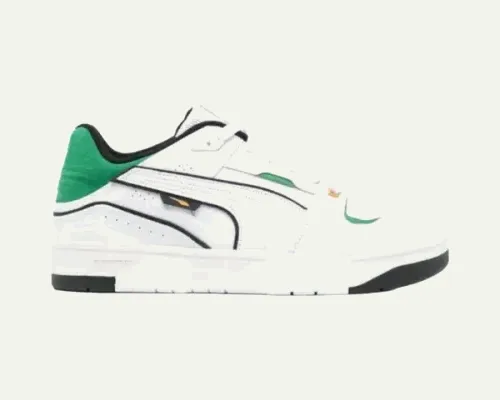
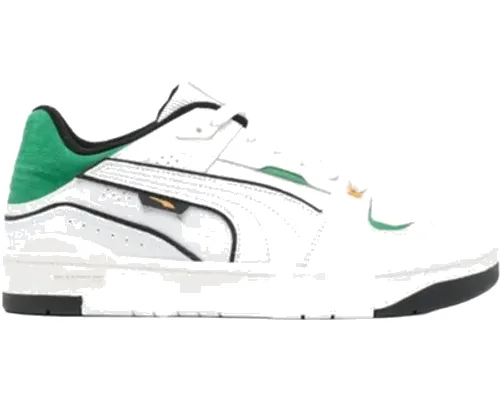
DROP 01: strokes one size down, shoes on white, résumé linked
Page divisions 2px, every object edge 1px; the nested frame around each
shoe goes, replaced by a white panel. Continental 80, Away Day and Aeon v2
swapped for angled shots so all seven pairs face the same way; all seven
re-normalised onto a white 500×400 canvas. Résumé link points at the
shared Google Drive PDF; RESUME_URL leaves the FILL list. check.sh rule
2b restated for the new weights.

Claude-Session: https://claude.ai/code/session_01GFvP9XJHX5bu9LUWUzbNcf

diff --git a/drop-01/src/components/LotDialog.jsx b/drop-01/src/components/LotDialog.jsx
@@ -38,15 +38,15 @@ export default function LotDialog({ lots, active, onRequestClose, onNavigate }) 
       onClose={onClose}
       onCancel={(e) => { e.preventDefault(); onClose(); }}
       aria-labelledby="lot-heading"
-      className="m-0 md:m-auto w-full max-w-none md:max-w-[1100px] h-full md:h-auto md:max-h-[92vh] bg-paper text-ink border-0 md:border-2 border-ink p-0 overflow-auto"
+      className="m-0 md:m-auto w-full max-w-none md:max-w-[1100px] h-full md:h-auto md:max-h-[92vh] bg-paper text-ink border-0 md:border border-ink p-0 overflow-auto"
     >
-      <div className="sticky top-0 bg-paper border-b-2 border-ink flex items-center justify-between gap-4 px-4 md:px-6 h-12">
+      <div className="sticky top-0 bg-paper border-b border-ink flex items-center justify-between gap-4 px-4 md:px-6 h-12">
         <p className="label flex gap-4">
           <span className="mono-wide">Lot {active.lot}</span>
           <span>{active.format}</span>
           <span>{active.client}</span>
         </p>
-        <button type="button" data-close onClick={onClose} className="label font-bold h-full px-3 border-l-2 border-ink -mr-4 md:-mr-6">
+        <button type="button" data-close onClick={onClose} className="label font-bold h-full px-3 border-l border-ink -mr-4 md:-mr-6">
           <Q>CLOSE</Q>
           <span className="sr-only">Close lot {active.lot}</span>
         </button>
@@ -54,7 +54,7 @@ export default function LotDialog({ lots, active, onRequestClose, onNavigate }) 
 
       <div className="grid grid-cols-12 gap-6 p-4 md:p-6">
         <div className="col-span-12 lg:col-span-7 flex flex-col gap-6">
-          <div className="border-2 border-ink p-4">
+          <div className="border border-ink p-4">
             <p className="label">Brief · Mad Ad Woman cohort</p>
             <p className="mt-1 max-w-[70ch]">{active.brief}</p>
           </div>
@@ -71,22 +71,22 @@ export default function LotDialog({ lots, active, onRequestClose, onNavigate }) 
             </div>
           )}
 
-          <aside className="border-2 border-dashed border-ink p-4" aria-label="Self-critique">
+          <aside className="border border-dashed border-ink p-4" aria-label="Self-critique">
             <p className="label">Self-critique · margin</p>
             {active.critique ? <p className="read mt-2 max-w-[58ch]">{active.critique}</p> : <p className="mt-2"><span className="fill">[ SELF-CRITIQUE PENDING ]</span></p>}
           </aside>
         </div>
 
         <figure className="col-span-12 lg:col-span-5">
-          <div className="border-2 border-ink shadow-hard-8">
+          <div className="border border-ink shadow-hard-8">
             <img src={active.mock.src} width={active.mock.w} height={active.mock.h} alt={active.mock.alt} loading="lazy" className="block w-full h-auto" />
           </div>
           <figcaption className="label mt-4">Mockup, {active.mock.w}×{active.mock.h}</figcaption>
         </figure>
       </div>
 
-      <div className="border-t-2 border-ink grid grid-cols-2">
-        <button type="button" onClick={() => onNavigate(prev.slug)} className="label font-bold p-4 text-left border-r-2 border-ink hover:bg-ink hover:text-lime focus-visible:bg-ink focus-visible:text-lime">
+      <div className="border-t border-ink grid grid-cols-2">
+        <button type="button" onClick={() => onNavigate(prev.slug)} className="label font-bold p-4 text-left border-r border-ink hover:bg-ink hover:text-lime focus-visible:bg-ink focus-visible:text-lime">
           ← Lot {prev.lot} · {prev.client}
         </button>
         <button type="button" onClick={() => onNavigate(next.slug)} className="label font-bold p-4 text-right hover:bg-ink hover:text-lime focus-visible:bg-ink focus-visible:text-lime">

diff --git a/drop-01/src/components/Receipt.jsx b/drop-01/src/components/Receipt.jsx
@@ -14,7 +14,7 @@ function Line({ k, children }) {
 export default function Receipt() {
   const { dayJob } = PERSON;
   return (
-    <section id="statement" aria-labelledby="statement-heading" className="border-b-[3px] border-ink">
+    <section id="statement" aria-labelledby="statement-heading" className="border-b-2 border-ink">
       <div className="mx-auto max-w-[1440px] px-4 md:px-8 py-14 md:py-28 grid grid-cols-12 gap-6">
         <div className="col-span-12 md:col-span-5 flex flex-col gap-4">
           <p><span className="runhead">01 / Statement</span></p>
@@ -41,8 +41,8 @@ export default function Receipt() {
         </div>
 
         <div className="col-span-12 md:col-span-6 md:col-start-7">
-          <div className="max-w-md bg-paper border-2 border-ink shadow-hard-8 p-5 md:p-6">
-            <div className="bg-blue text-paper -m-5 md:-m-6 mb-5 md:mb-6 p-4 border-b-2 border-ink">
+          <div className="max-w-md bg-paper border border-ink shadow-hard-8 p-5 md:p-6">
+            <div className="bg-blue text-paper -m-5 md:-m-6 mb-5 md:mb-6 p-4 border-b border-ink">
               <p className="label">Statement of account</p>
               <p className="head text-2xl">A. {PERSON.last}</p>
               <p className="label mt-1">Printed {DROP.issued}</p>
@@ -54,11 +54,11 @@ export default function Receipt() {
                 <span className="label">{PERSON.city}</span>
               </div>
               {PASSPORT ? (
-                <div className="w-[84px] border-2 border-ink shrink-0">
+                <div className="w-[84px] border border-ink shrink-0">
                   <img src={PASSPORT.src} width={PASSPORT.w} height={PASSPORT.h} alt={`Passport photo of ${PERSON.name}`} loading="lazy" className="block w-full h-auto" />
                 </div>
               ) : (
-                <div className="w-[84px] aspect-[3/4] border-2 border-dashed border-ink shrink-0 flex items-center justify-center text-center p-1">
+                <div className="w-[84px] aspect-[3/4] border border-dashed border-ink shrink-0 flex items-center justify-center text-center p-1">
                   <span className="label mono-cond">Photo pending</span>
                 </div>
               )}
@@ -68,7 +68,7 @@ export default function Receipt() {
                 <Line key={k} k={k}>{v}</Line>
               ))}
             </dl>
-            <p className="label mt-5 pt-3 border-t-2 border-dashed border-ink">Off the books</p>
+            <p className="label mt-5 pt-3 border-t border-dashed border-ink">Off the books</p>
             <dl className="mb-1">
               {OFF_THE_BOOKS.map(([k, v]) => (
                 <Line key={k} k={k}>{v}</Line>

diff --git a/drop-01/src/components/SignOff.jsx b/drop-01/src/components/SignOff.jsx
@@ -6,14 +6,14 @@ export default function SignOff() {
   const mailto = `mailto:${PERSON.email}?subject=${encodeURIComponent(subject)}`;
 
   const Row = ({ k, children }) => (
-    <div className="grid grid-cols-[10ch_minmax(0,1fr)] gap-4 py-3 border-b-2 border-ink items-baseline">
+    <div className="grid grid-cols-[10ch_minmax(0,1fr)] gap-4 py-3 border-b border-ink items-baseline">
       <dt className="label">{k}</dt>
       <dd className="font-bold wrap-anywhere">{children}</dd>
     </div>
   );
 
   return (
-    <section id="sign-off" aria-labelledby="sign-off-heading" className="border-b-[3px] border-ink">
+    <section id="sign-off" aria-labelledby="sign-off-heading" className="border-b-2 border-ink">
       <div className="mx-auto max-w-[1440px] px-4 md:px-8 py-14 md:py-28 grid grid-cols-12 gap-6">
         <div className="col-span-12 md:col-span-7 flex flex-col gap-6">
           <p><span className="runhead">07 / Sign off</span></p>
@@ -23,7 +23,7 @@ export default function SignOff() {
           <p className="label">
             Subject line, prefilled: <span className="normal-case font-bold">{subject}</span>
           </p>
-          <a href={mailto} className="press bg-lime text-ink border-2 border-ink head text-2xl md:text-3xl px-6 py-4 self-start inline-flex items-center gap-4">
+          <a href={mailto} className="press bg-lime text-ink border border-ink head text-2xl md:text-3xl px-6 py-4 self-start inline-flex items-center gap-4">
             <Q>SEND</Q>
             <span className="sr-only">Send an email to Arpit</span>
             <svg width="28" height="28" viewBox="0 0 24 24" fill="none" aria-hidden="true">
@@ -32,7 +32,7 @@ export default function SignOff() {
           </a>
         </div>
 
-        <dl className="col-span-12 md:col-span-7 border-t-2 border-ink self-start">
+        <dl className="col-span-12 md:col-span-7 border-t border-ink self-start">
           <Row k="Mail"><a href={`mailto:${PERSON.email}`} className="underline underline-offset-4">{PERSON.email}</a></Row>
           <Row k="Instagram"><a href={PERSON.instagram.url} target="_blank" rel="noopener noreferrer" className="underline underline-offset-4">{PERSON.instagram.handle}</a></Row>
           <Row k="LinkedIn"><a href={PERSON.linkedin.url} target="_blank" rel="noopener noreferrer" className="underline underline-offset-4">{PERSON.linkedin.handle}</a></Row>

diff --git a/drop-01/src/components/Manifest.jsx b/drop-01/src/components/Manifest.jsx
@@ -34,7 +34,7 @@ export default function Manifest({ onOpen }) {
   const [lead, ...rest] = LOTS;
   const scope = useRef(null);
   return (
-    <section id="manifest" aria-labelledby="manifest-heading" className="border-b-[3px] border-ink" ref={scope}>
+    <section id="manifest" aria-labelledby="manifest-heading" className="border-b-2 border-ink" ref={scope}>
       <ManifestCursor scope={scope} />
       <div className="mx-auto max-w-[1440px] px-4 md:px-8 py-14 md:py-28 grid grid-cols-12 gap-4 md:gap-6">
         <div className="col-span-12 flex flex-col md:flex-row md:items-end gap-4 md:gap-8">
@@ -46,11 +46,11 @@ export default function Manifest({ onOpen }) {
           </div>
         </div>
 
-        <p className="col-span-12 bg-pink text-ink border-2 border-ink p-5 md:p-7 head text-[clamp(20px,2.3vw,32px)]">
+        <p className="col-span-12 bg-pink text-ink border border-ink p-5 md:p-7 head text-[clamp(20px,2.3vw,32px)]">
           Cohort briefs. All eight were set by the Mad Ad Woman copywriting cohort; no client on this manifest commissioned the work.
         </p>
 
-        <article className="col-span-12 border-2 border-ink p-5 md:p-8 flex flex-col gap-6" data-cta={lead.cta}>
+        <article className="col-span-12 border border-ink p-5 md:p-8 flex flex-col gap-6" data-cta={lead.cta}>
           <Meta lot={lead} />
           <LotLine lot={lead} className="display text-[clamp(44px,10vw,170px)]" />
           <div className="flex flex-wrap items-center gap-4">
@@ -62,9 +62,9 @@ export default function Manifest({ onOpen }) {
         </article>
 
         {rest.map((lot, i) => (
-          <article key={lot.slug} className={`col-span-12 ${SPANS[i]} border-2 border-ink p-4 md:p-5 flex flex-col gap-4`} data-cta={lot.cta}>
+          <article key={lot.slug} className={`col-span-12 ${SPANS[i]} border border-ink p-4 md:p-5 flex flex-col gap-4`} data-cta={lot.cta}>
             <Meta lot={lot} />
-            <div className="border-2 border-ink bg-paper aspect-[3/2] overflow-hidden">
+            <div className="border border-ink bg-paper aspect-[3/2] overflow-hidden">
               <img src={THUMBS[lot.slug]} width="960" height="640" alt="" aria-hidden="true" loading="lazy" className="block w-full h-full object-cover object-top" />
             </div>
             <LotLine lot={lot} className="head text-[clamp(22px,2.3vw,34px)] flex-1" />

diff --git a/drop-01/src/components/Cover.jsx b/drop-01/src/components/Cover.jsx
@@ -8,12 +8,12 @@ export default function Cover() {
   return (
     <section id="cover" aria-labelledby="cover-heading">
       <div className="mx-auto max-w-[1440px] px-4 md:px-8 py-8 md:py-12">
-        <div className="border-2 border-ink bg-paper shadow-hard-14 md:grid md:grid-cols-[minmax(0,5fr)_minmax(0,7fr)]">
-          <p className="label flex flex-wrap justify-between gap-x-6 px-4 py-2 border-b-2 border-ink md:col-span-2">
+        <div className="border border-ink bg-paper shadow-hard-14 md:grid md:grid-cols-[minmax(0,5fr)_minmax(0,7fr)]">
+          <p className="label flex flex-wrap justify-between gap-x-6 px-4 py-2 border-b border-ink md:col-span-2">
             <span><span className="mono-wide">DROP {DROP.number}</span> · Issued {DROP.issued}</span>
             <span>Lot 00 · The account holder · In custody</span>
           </p>
-          <div className="bg-lime border-b-2 md:border-b-0 md:border-r-2 border-ink">
+          <div className="bg-lime border-b md:border-b-0 md:border-r border-ink">
             <img src={PORTRAIT.src} width={PORTRAIT.w} height={PORTRAIT.h} alt={PORTRAIT.alt} className="block w-full h-full object-cover" fetchPriority="high" />
           </div>
           <div className="p-5 md:p-8 flex flex-col gap-4 md:gap-5">
@@ -29,7 +29,7 @@ export default function Cover() {
             <p className="read text-lg md:text-xl max-w-[40ch]">
               {PERSON.craft[0]} after hours; product manager on the {dayJob.unit} desk at {dayJob.org} by day. The manifest below is the copy. The statement is the rest.
             </p>
-            <div className="mt-auto pt-4 border-t-2 border-ink flex flex-wrap items-center justify-between gap-x-6 gap-y-2">
+            <div className="mt-auto pt-4 border-t border-ink flex flex-wrap items-center justify-between gap-x-6 gap-y-2">
               <p className="label flex flex-wrap gap-x-6">
                 <span>Size {PERSON.size}</span>
                 <span>{PERSON.city}</span>

diff --git a/drop-01/src/components/Origin.jsx b/drop-01/src/components/Origin.jsx
@@ -5,7 +5,7 @@ import { ORIGIN } from '../data/identity.js';
 // set as fields. The form is rendered straight so the hijack is legible.
 export default function Origin() {
   return (
-    <section id="kyc" aria-labelledby="kyc-heading" className="border-b-[3px] border-ink">
+    <section id="kyc" aria-labelledby="kyc-heading" className="border-b-2 border-ink">
       <div className="mx-auto max-w-[1440px] px-4 md:px-8 py-14 md:py-28 grid grid-cols-12 gap-6">
         <div className="col-span-12">
           <p><span className="runhead">03 / KYC</span></p>
@@ -15,13 +15,13 @@ export default function Origin() {
         </div>
 
         <figure className="col-span-12 sm:col-span-6 md:col-span-3">
-          <div className="border-2 border-ink shadow-hard-8 bg-paper">
+          <div className="border border-ink shadow-hard-8 bg-paper">
             <img src={aboutPhoto} width="460" height="480" alt="Arpit holding a green sneaker up to his face" loading="lazy" className="block w-full h-auto" />
           </div>
           <figcaption className="label mt-4">Photo ID · account holder</figcaption>
         </figure>
 
-        <div className="col-span-12 sm:col-span-6 md:col-span-4 border-2 border-ink bg-paper self-start">
+        <div className="col-span-12 sm:col-span-6 md:col-span-4 border border-ink bg-paper self-start">
           <p className="label bg-ink text-paper px-4 py-2">Know your customer</p>
           <dl className="p-4 text-sm">
             {ORIGIN.kyc.map(([k, v]) => (
@@ -31,7 +31,7 @@ export default function Origin() {
               </div>
             ))}
           </dl>
-          <p className="label px-4 py-2 border-t-2 border-ink flex justify-between">
+          <p className="label px-4 py-2 border-t border-ink flex justify-between">
             <span>Status</span>
             <span className="bg-ink text-paper px-2 font-bold">Active</span>
           </p>

diff --git a/drop-01/src/components/Custody.jsx b/drop-01/src/components/Custody.jsx
@@ -6,7 +6,7 @@ const pad = (n) => String(n).padStart(2, '0');
 
 export default function Custody() {
   return (
-    <section id="custody" aria-labelledby="custody-heading" className="border-b-[3px] border-ink">
+    <section id="custody" aria-labelledby="custody-heading" className="border-b-2 border-ink">
       <div className="mx-auto max-w-[1440px] px-4 md:px-8 py-14 md:py-28 grid grid-cols-12 gap-6">
         <div className="col-span-12 flex flex-wrap items-end justify-between gap-4">
           <div>
@@ -20,12 +20,12 @@ export default function Custody() {
 
         <ol className="col-span-12 grid grid-cols-12 gap-4 md:gap-6">
           {CUSTODY.map((p) => (
-            <li key={p.id} className={`col-span-12 sm:col-span-6 border-2 border-ink p-4 flex flex-col gap-3 bg-paper text-ink ${p.n === '07' ? 'lg:col-span-8' : 'lg:col-span-4'}`}>
+            <li key={p.id} className={`col-span-12 sm:col-span-6 border border-ink p-4 flex flex-col gap-3 bg-paper text-ink ${p.n === '07' ? 'lg:col-span-8' : 'lg:col-span-4'}`}>
               <p className="label flex justify-between">
                 <span className="mono-wide">Pair {p.n}</span>
                 <span>In rotation</span>
               </p>
-              <div className="border-2 border-ink bg-paper aspect-[5/4] lg:aspect-auto lg:h-[300px] p-3 flex items-center justify-center overflow-hidden">
+              <div className="bg-white aspect-[5/4] lg:aspect-auto lg:h-[300px] p-3 flex items-center justify-center overflow-hidden">
                 <img src={p.image.src} width={p.image.w} height={p.image.h} alt={`${p.brand} ${p.model}`} loading="lazy" className="block w-full h-full object-contain" />
               </div>
               <h3 className="head-sm text-[clamp(22px,2vw,30px)]">

diff --git a/drop-01/src/components/Crafts.jsx b/drop-01/src/components/Crafts.jsx
@@ -4,7 +4,7 @@ import { CRAFTS } from '../data/crafts.js';
 
 export default function Crafts() {
   return (
-    <section id="other-shoes" aria-labelledby="other-shoes-heading" className="border-b-[3px] border-ink">
+    <section id="other-shoes" aria-labelledby="other-shoes-heading" className="border-b-2 border-ink">
       <div className="mx-auto max-w-[1440px] px-4 md:px-8 py-14 md:py-28 grid grid-cols-12 gap-6">
         <div className="col-span-12">
           <p><span className="runhead">04 / Other shoes</span></p>
@@ -14,8 +14,8 @@ export default function Crafts() {
         </div>
 
         {CRAFTS.map((c) => (
-          <article key={c.id} className="col-span-12 md:col-span-6 grid grid-cols-1 sm:grid-cols-[minmax(120px,38%)_1fr] gap-5 border-2 border-ink p-4 md:p-5">
-            <div className="border-2 border-ink shadow-hard-8 self-start max-w-[260px] sm:max-w-none">
+          <article key={c.id} className="col-span-12 md:col-span-6 grid grid-cols-1 sm:grid-cols-[minmax(120px,38%)_1fr] gap-5 border border-ink p-4 md:p-5">
+            <div className="border border-ink shadow-hard-8 self-start max-w-[260px] sm:max-w-none">
               <img src={c.poster.src} width={c.poster.w} height={c.poster.h} alt={c.poster.alt} loading="lazy" className="block w-full h-auto" />
             </div>
             <div className="flex flex-col gap-3 min-w-0">

diff --git a/drop-01/src/app.css b/drop-01/src/app.css
@@ -14,6 +14,7 @@
   --color-lime: #BFE83A;
   --color-pink: #F2568F;
   --color-blue: #2447C9;
+  --color-white: #FFFFFF;
 
   --font-display: "Bricolage Grotesque", "Arial Narrow", Helvetica, sans-serif;
   --font-mono: "Martian Mono", ui-monospace, "SF Mono", Menlo, monospace;
@@ -177,7 +178,7 @@
   /* Unfinished-content token: never mistakable for shipped copy. */
   .fill {
     display: inline-block;
-    border: 2px dashed var(--color-ink);
+    border: 1px dashed var(--color-ink);
     color: var(--color-ink);
     font-family: var(--font-mono);
     font-stretch: 80%;
@@ -203,7 +204,7 @@
 
   .stamp {
     display: inline-block;
-    border: 2px solid currentColor;
+    border: 1px solid currentColor;
     padding: 0.15em 0.5em;
     letter-spacing: 0.1em;
     text-transform: uppercase;
@@ -215,7 +216,7 @@
     display: inline-block;
     background: var(--color-lime);
     color: var(--color-ink);
-    border: 2px solid var(--color-ink);
+    border: 1px solid var(--color-ink);
     box-shadow: var(--shadow-hard-4);
     font-family: var(--font-mono);
     font-weight: 700;

diff --git a/drop-01/src/data/identity.js b/drop-01/src/data/identity.js
@@ -26,7 +26,6 @@ export const PERSON = {
 // Unsupplied facts, rendered as visible tokens. Keys are the <<FILL:...>> ids
 // from the brief; the build prints every one still outstanding at check time.
 export const FILLS = {
-  RESUME_URL: null, // the Google Drive link to the résumé
   MADADWOMAN_LINE: null,
   FOLEY_RUNTIME: null,
   VOCAL_RUNTIME: null,
@@ -41,7 +40,7 @@ export const PORTRAIT = { src: portrait, w: 800, h: 1000, alt: 'Arpit at a monum
 
 // The résumé lives on Google Drive, not in this repository. Set the href
 // once the link exists; until then the statement prints a pending slot.
-export const RESUME = null; // { href: 'https://drive.google.com/...', label: 'Google Drive, one page' }
+export const RESUME = { href: 'https://drive.google.com/file/d/1PvQKCqmV7eJAkoFI-A9_SZp6aEd74o16/view?usp=drivesdk', label: 'Google Drive, one page' };
 
 // The statement of account: seven lines. Each says something no other part
 // of the page says, in a form a hiring marketer scans. The rest is the résumé.

diff --git a/drop-01/src/components/Nav.jsx b/drop-01/src/components/Nav.jsx
@@ -42,12 +42,12 @@ export default function Nav() {
   }, []);
 
   return (
-    <nav className="sticky top-0 z-40 bg-paper border-b-[3px] border-ink h-12" aria-label="Contents">
+    <nav className="sticky top-0 z-40 bg-paper border-b-2 border-ink h-12" aria-label="Contents">
       <div className="mx-auto max-w-[1440px] h-full flex items-stretch">
-        <a href="#cover" className="display text-2xl px-4 flex items-center border-r-2 border-ink shrink-0">
+        <a href="#cover" className="display text-2xl px-4 flex items-center border-r border-ink shrink-0">
           DROP&nbsp;{DROP.number}
         </a>
-        <span className="label hidden md:flex items-center px-4 border-r-2 border-ink shrink-0">
+        <span className="label hidden md:flex items-center px-4 border-r border-ink shrink-0">
           <Q>CONTENTS</Q>
           <span className="sr-only">Contents</span>
         </span>

diff --git a/drop-01/src/components/Ticker.jsx b/drop-01/src/components/Ticker.jsx
@@ -19,7 +19,7 @@ function Run({ hidden }) {
   return (
     <ul className="flex gap-0" aria-hidden={hidden || undefined}>
       {ITEMS.map((t, i) => (
-        <li key={i} className="label mono-cond whitespace-nowrap px-6 py-2 border-r-2 border-ink">
+        <li key={i} className="label mono-cond whitespace-nowrap px-6 py-2 border-r border-ink">
           {t}
         </li>
       ))}
@@ -29,7 +29,7 @@ function Run({ hidden }) {
 
 export default function Ticker() {
   return (
-    <div className="ticker bg-paper text-ink overflow-x-auto border-b-[3px] border-ink" aria-label="Drop manifest">
+    <div className="ticker bg-paper text-ink overflow-x-auto border-b-2 border-ink" aria-label="Drop manifest">
       <div className="ticker-track">
         <Run />
       </div>
